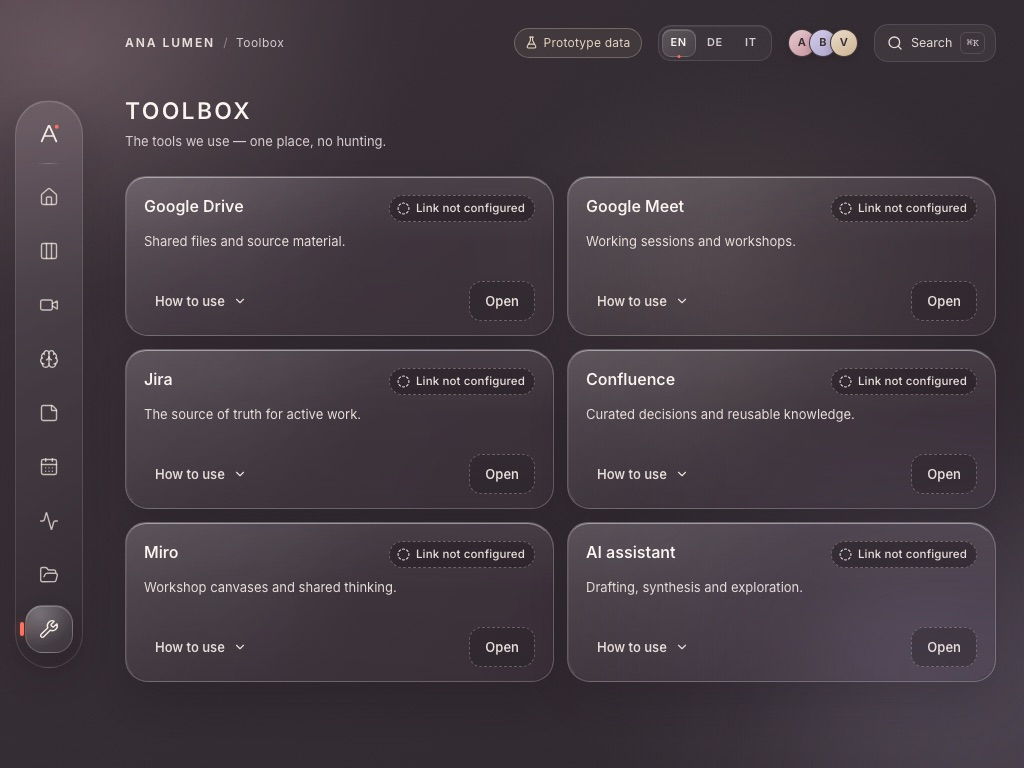
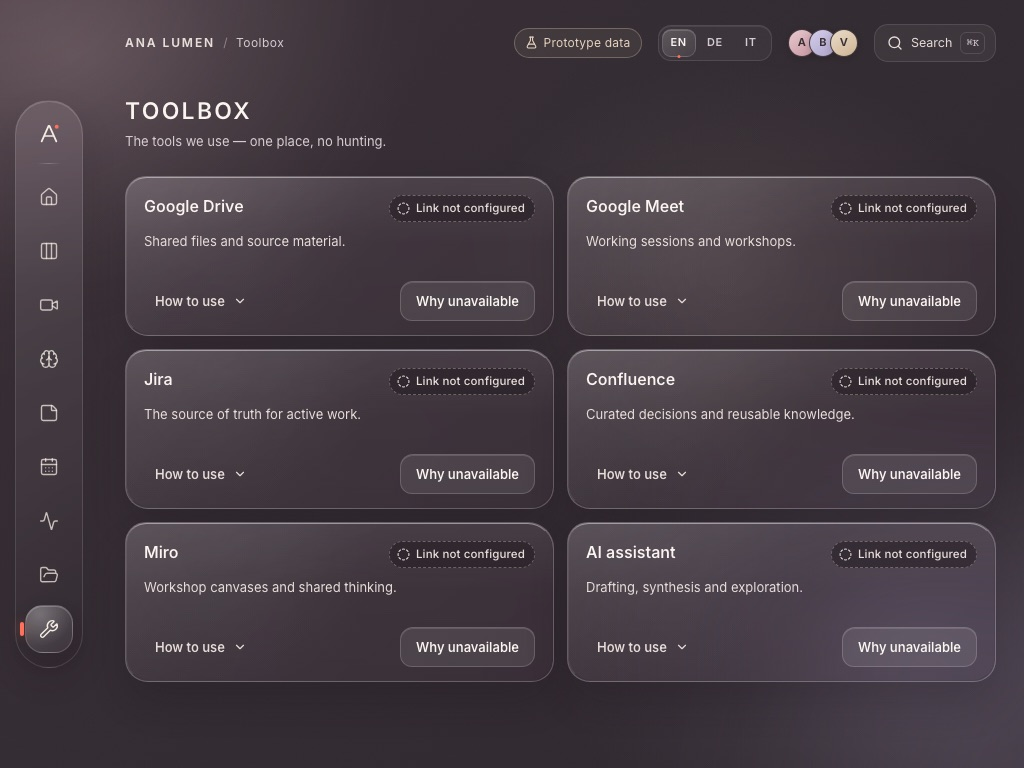
fix(dashboard): resolve PR #2 code-review findings ANA-19..ANA-22
- ANA-19: the context lens keeps modal ownership (focus trap, Escape, focus
  return) for its whole mounted lifetime; the 280 ms exit animation is visual
  only. Repeated close requests are ignored while closing, and a pending close
  timer is cleared on unmount. Reduced motion still closes immediately.
- ANA-22: dashboard workflow also triggers on .nvmrc (read by setup-node);
  push and pull_request path lists kept identical and documented.
- ANA-20: Toolbox action is a truthful, operable "Why unavailable" button
  (no aria-disabled on an actionable control); reason stays visible as a chip.
- ANA-21: search combobox reports aria-expanded=true whenever the popup is
  open, including zero results (no active descendant then).
- e2e/review-fixes.spec.ts: 9 tests, 4 shown failing on 822c802 for the
  reported defects (RED-RUNS.md); evidence screenshots regenerated.

diff --git a/apps/dashboard/e2e/review-fixes.spec.ts b/apps/dashboard/e2e/review-fixes.spec.ts
@@ -1,0 +1,130 @@
+/** Regressions for the Enterprise Code Review findings on PR #2 (Jira ANA-19, ANA-20, ANA-21). */
+import type { Page } from "@playwright/test";
+import { expect, test } from "./fixtures";
+
+const focusInDialog = (page: Page) => page.evaluate(() => !!document.activeElement?.closest('[role="dialog"]'));
+
+test.describe("ANA-19 · context lens keeps modal focus for its whole mounted lifetime", () => {
+  test("motion on: Tab / Shift+Tab cannot leave the lens during the exit animation; focus returns to the opener after removal", async ({ page }) => {
+    await page.emulateMedia({ reducedMotion: "no-preference" });
+    await page.goto("/");
+    const opener = page.getByTestId("context-work");
+    await opener.click();
+    const lens = page.getByTestId("context-lens");
+    await expect(lens).toBeVisible();
+
+    await page.keyboard.press("Escape");
+    // the lens is still mounted as an aria-modal dialog while it animates out
+    await expect(page.locator('[data-state="closing"] [role="dialog"][aria-modal="true"]')).toHaveCount(1);
+    for (const key of ["Tab", "Tab", "Shift+Tab", "Shift+Tab", "Shift+Tab"]) {
+      await page.keyboard.press(key);
+      if ((await page.locator('[role="dialog"]').count()) === 0) break; // animation finished between presses
+      expect(await focusInDialog(page), `focus stays in the mounted dialog after ${key}`).toBe(true);
+    }
+
+    await expect(page.locator('[role="dialog"]')).toHaveCount(0);
+    await expect(opener).toBeFocused();
+  });
+
+  test("a second close request during the exit animation does not close a lens that is reopened right after", async ({ page }) => {
+    await page.emulateMedia({ reducedMotion: "no-preference" });
+    await page.goto("/");
+    await page.getByTestId("context-work").click();
+    await expect(page.getByTestId("context-lens")).toBeVisible();
+    await page.keyboard.press("Escape");
+    await page.waitForTimeout(60);
+    await page.mouse.click(40, 860); // backdrop click while closing
+    await expect(page.locator('[role="dialog"]')).toHaveCount(0);
+    await page.getByTestId("context-session").click();
+    await expect(page.getByTestId("context-lens")).toHaveAttribute("data-lens", "session");
+    await page.waitForTimeout(500); // longer than any stale close timer
+    await expect(page.getByTestId("context-lens")).toBeVisible();
+    await expect(page.getByTestId("context-lens")).toHaveAttribute("data-lens", "session");
+  });
+
+  test("search over a lens is a modal stack: first Escape closes search only, second closes the lens", async ({ page }) => {
+    await page.emulateMedia({ reducedMotion: "no-preference" });
+    await page.goto("/");
+    const opener = page.getByTestId("context-knowledge");
+    await opener.click();
+    await expect(page.getByTestId("context-lens")).toBeVisible();
+    await page.keyboard.press("ControlOrMeta+k");
+    await expect(page.getByTestId("search-panel")).toBeVisible();
+
+    await page.keyboard.press("Escape");
+    await expect(page.getByTestId("search-panel")).toBeHidden();
+    await page.waitForTimeout(400);
+    await expect(page.getByTestId("context-lens")).toBeVisible();
+    expect(await page.evaluate(() => !!document.activeElement?.closest('[data-testid="context-lens"]'))).toBe(true);
+
+    await page.keyboard.press("Escape");
+    await expect(page.locator('[role="dialog"]')).toHaveCount(0);
+    await expect(opener).toBeFocused();
+  });
+
+  test("reduced motion: closing removes the lens immediately and restores focus to the opener", async ({ page }) => {
+    await page.emulateMedia({ reducedMotion: "reduce" });
+    await page.goto("/");
+    const opener = page.getByTestId("context-community");
+    await opener.click();
+    await expect(page.getByTestId("context-lens")).toBeVisible();
+    await page.keyboard.press("Escape");
+    // no exit animation: gone without waiting for the 280 ms timer
+    expect(await page.locator('[role="dialog"]').count()).toBe(0);
+    await expect(opener).toBeFocused();
+  });
+});
+
+test.describe("ANA-20 · Toolbox action: announced state matches behaviour", () => {
+  test("the action is a normal, operable button that explains why the tool cannot open", async ({ page }) => {
+    await page.goto("/toolbox");
+    const card = page.getByTestId("tool-jira");
+    const action = card.getByRole("button", { name: "Why unavailable" });
+    await expect(action).toBeVisible();
+    await expect(action).not.toHaveAttribute("aria-disabled", /.*/);
+    await expect(action).toBeEnabled();
+    await expect(card.getByRole("button", { name: "Open" })).toHaveCount(0);
+    await action.focus();
+    await page.keyboard.press("Enter");
+    await expect(page.getByTestId("toast")).toContainText("not configured");
+    // the reason is also visible without activating anything
+    await expect(card).toContainText("Link not configured");
+  });
+
+  test("no element in the app announces aria-disabled while staying actionable", async ({ page }) => {
+    for (const route of ["/toolbox", "/pulse", "/vault"]) {
+      await page.goto(route);
+      await expect(page.locator('[aria-disabled="true"]')).toHaveCount(0);
+    }
+  });
+});
+
+test.describe("ANA-21 · search combobox expanded state follows the popup, not the result count", () => {
+  test("open with results: expanded, active descendant set", async ({ page }) => {
+    await page.goto("/");
+    await page.keyboard.press("ControlOrMeta+k");
+    const input = page.getByTestId("search-input");
+    await input.fill("brain");
+    await expect(input).toHaveAttribute("aria-expanded", "true");
+    await expect(input).toHaveAttribute("aria-activedescendant", /.+/);
+  });
+
+  test("open with zero results: still expanded, no active descendant, no-results message announced", async ({ page }) => {
+    await page.goto("/");
+    await page.keyboard.press("ControlOrMeta+k");
+    const input = page.getByTestId("search-input");
+    await input.fill("zzzz");
+    await expect(page.getByTestId("search-panel")).toContainText("No matches yet");
+    await expect(input).toHaveAttribute("aria-expanded", "true");
+    await expect(input).not.toHaveAttribute("aria-activedescendant", /.*/);
+    await expect(page.getByTestId("search-panel").locator('[aria-live="polite"]')).toHaveText("0 results");
+    await expect(page.getByRole("listbox")).toBeAttached();
+  });
+
+  test("closed: the combobox is gone, so no stale expanded state remains", async ({ page }) => {
+    await page.goto("/");
+    await page.keyboard.press("ControlOrMeta+k");
+    await page.keyboard.press("Escape");
+    await expect(page.getByRole("combobox")).toHaveCount(0);
+  });
+});

diff --git a/apps/dashboard/src/features/now/ContextLens.tsx b/apps/dashboard/src/features/now/ContextLens.tsx
@@ -2,7 +2,7 @@
 
 import { ArrowRight, BookOpenText, FileJson, FileText, PlayCircle, ScrollText, X } from "lucide-react";
 import Link from "next/link";
-import { useCallback, useId, useRef, useState } from "react";
+import { useCallback, useEffect, useId, useRef, useState } from "react";
 import { useI18n } from "@/components/providers/I18nProvider";
 import { usePrototype } from "@/components/providers/PrototypeProvider";
 import { Avatar } from "@/components/ui/Avatar";
@@ -22,24 +22,37 @@ export type LensId = "work" | "session" | "business" | "knowledge" | "community"
 const CLOSE_MS = 280;
 
 export function ContextLens({ lens, onClose }: { lens: LensId | null; onClose: () => void }) {
+  // `closing` is visual only (exit animation). Modal ownership — focus trap, Escape, focus return —
+  // lasts for the whole time the dialog is mounted and ends only when the lens is removed.
   const [closing, setClosing] = useState(false);
   const reduced = useReducedMotion();
   const panel = useRef<HTMLElement>(null);
+  const closeTimer = useRef<number | null>(null);
   const titleId = useId();
 
   const requestClose = useCallback(() => {
+    if (closeTimer.current !== null) return; // already closing: no second timer, no second cleanup
     if (reduced) {
       onClose();
       return;
     }
     setClosing(true);
-    window.setTimeout(() => {
+    closeTimer.current = window.setTimeout(() => {
+      closeTimer.current = null;
       setClosing(false);
       onClose();
     }, CLOSE_MS);
   }, [onClose, reduced]);
 
-  useFocusTrap(panel, lens !== null && !closing, requestClose);
+  // leaving the page mid-animation must not fire a stale close later
+  useEffect(
+    () => () => {
+      if (closeTimer.current !== null) window.clearTimeout(closeTimer.current);
+    },
+    [],
+  );
+
+  useFocusTrap(panel, lens !== null, requestClose);
 
   if (!lens) return null;
   const shown = lens;

diff --git a/apps/dashboard/src/features/connections/ToolboxView.tsx b/apps/dashboard/src/features/connections/ToolboxView.tsx
@@ -36,8 +36,9 @@ export function ToolboxView({ highlight }: { highlight?: string }) {
                 <Button variant="quiet" aria-expanded={expanded} aria-controls={`how-${tool.id}`} onClick={() => setOpen(expanded ? null : tool.id)} trailingIcon={<ChevronDown size={14} aria-hidden="true" className={expanded ? styles.flip : undefined} />}>
                   {t("toolbox.howTo")}
                 </Button>
-                <Button variant="secondary" aria-disabled="true" onClick={() => notify(t("toolbox.linkMissingToast"))}>
-                  {t("common.open")}
+                {/* a real, operable action that says what it does: explain why the tool cannot be opened yet */}
+                <Button variant="secondary" onClick={() => notify(t("toolbox.linkMissingToast"))}>
+                  {t("toolbox.whyUnavailable")}
                 </Button>
               </div>
             </li>

diff --git a/apps/dashboard/src/components/ui/ui.module.css b/apps/dashboard/src/components/ui/ui.module.css
@@ -32,22 +32,6 @@
   transform: none;
 }
 
-/* unavailable but still focusable (explains itself on click): reads as inert without losing legibility */
-.button[aria-disabled="true"] {
-  cursor: not-allowed;
-  transform: none;
-  color: var(--text-secondary);
-  border-style: dashed;
-  border-color: rgba(245, 237, 228, 0.28);
-  background: rgba(32, 26, 31, 0.35);
-  box-shadow: none;
-}
-
-.button[aria-disabled="true"]:hover {
-  background: rgba(32, 26, 31, 0.35);
-  border-color: rgba(245, 237, 228, 0.28);
-}
-
 .primary {
   color: var(--accent-ink);
   border-color: rgba(255, 192, 177, 0.35);

diff --git a/apps/dashboard/src/components/shell/SearchPalette.tsx b/apps/dashboard/src/components/shell/SearchPalette.tsx
@@ -84,7 +84,8 @@ export function SearchPalette({ open, onClose }: { open: boolean; onClose: () =>
             data-autofocus
             className={styles.input}
             role="combobox"
-            aria-expanded={ordered.length > 0}
+            // the listbox popup is shown whenever the palette is open, even with zero options
+            aria-expanded="true"
             aria-controls={listId}
             aria-autocomplete="list"
             aria-activedescendant={ordered.length ? `${listId}-${active}` : undefined}

diff --git a/apps/dashboard/src/i18n/de.ts b/apps/dashboard/src/i18n/de.ts
@@ -236,6 +236,7 @@ export const de: Messages = {
     subtitle: "Die Werkzeuge, die wir nutzen — an einem Ort, ohne Suchen.",
     howTo: "So nutzt du es",
     linkMissing: "Link nicht eingerichtet",
+    whyUnavailable: "Warum nicht verfügbar",
     linkMissingToast: "Der Werkzeug-Link ist in diesem Prototyp nicht eingerichtet",
   },
   search: {

diff --git a/apps/dashboard/src/i18n/it.ts b/apps/dashboard/src/i18n/it.ts
@@ -236,6 +236,7 @@ export const it: Messages = {
     subtitle: "Gli strumenti che usiamo — in un unico posto, senza cercare.",
     howTo: "Come si usa",
     linkMissing: "Link non configurato",
+    whyUnavailable: "Perché non disponibile",
     linkMissingToast: "Il link dello strumento non è configurato in questo prototipo",
   },
   search: {

diff --git a/apps/dashboard/src/i18n/en.ts b/apps/dashboard/src/i18n/en.ts
@@ -239,6 +239,7 @@ export const en = {
     subtitle: "The tools we use — one place, no hunting.",
     howTo: "How to use",
     linkMissing: "Link not configured",
+    whyUnavailable: "Why unavailable",
     linkMissingToast: "Tool link is not configured in this prototype",
   },
   search: {

diff --git a/docs/evidence/ANA-4/RED-RUNS.md b/docs/evidence/ANA-4/RED-RUNS.md
@@ -9,6 +9,7 @@ A gate is only trusted after it has been seen failing on code that has the defec
 | `e2e/regressions.spec.ts` — 11 round-1 tests | `1816322` | 11 of 11 failed (the lens/search test only after it was strengthened to wait past the close animation; the weak first version passed and was replaced) | all pass |
 | `e2e/regressions.spec.ts` — 8 round-2 tests | `3e83927` (round-1 head) | 8 of 8 failed; the 11 round-1 tests passed there, as they should | all pass |
 | `e2e/regressions.spec.ts` — 7 round-3 tests | `4dc5ec4` (round-2 head) | 6 of 7 failed. The seventh ("a missing time focuses and marks the time field") passed there: round 2 already fixed that behaviour and review only reported the missing test, so it is a coverage test, not a fail-first test | all pass |
+| `e2e/review-fixes.spec.ts` — Enterprise Code Review findings ANA-19/20/21 (9 tests) | `822c802` (PR #2 head reviewed) | 4 of 9 failed, each for the reported defect: focus left the still-mounted aria-modal lens during its exit animation (ANA-19); Toolbox action announced `aria-disabled` while operable, twice (ANA-20); combobox reported `aria-expanded=false` with zero results (ANA-21). The other 5 (stacked Escape, reduced-motion close, double close request, expanded with results, closed state) passed there: they guard behaviour that was already correct | all pass; ANA-19 tests 40/40 with `--repeat-each 10` |
 | canaries in the working tree (reverted, `git diff` empty afterwards) | owner filter returning every ticket; Community card moved onto Knowledge; reduced-motion hook forced off | unit filter test, Board journey, `now` overlap check at 1440 and 1280, reduced-motion check failed | all pass |
 
 Not shown failing on purpose: the 1024 `now` overlap check stayed green in the overlap canary because the 1024 layout

diff --git a/docs/evidence/ANA-4/CHECKLIST.md b/docs/evidence/ANA-4/CHECKLIST.md
@@ -43,6 +43,7 @@ npm run dev            # repository root; Node >= 22.12; first run installs deps
 | axe WCAG 2.1 A/AA: no serious/critical issue on 11 routes and 15 open states (all lenses, search, search over a lens, forms, tabs, note editing) | `@axe-core/playwright` | `quality.spec.ts` |
 | Visible focus, rail current-page marking, reduced motion (no auto-rotation, near-zero transitions), meaning not colour-only, state resets on reload | browser checks | `quality.spec.ts` |
 | Regressions from review rounds 1 and 2 — fail-first runs recorded in [`RED-RUNS.md`](RED-RUNS.md) | — | `regressions.spec.ts` |
+| Code-review regressions: modal lens focus lifecycle (ANA-19), truthful Toolbox action (ANA-20), combobox expanded state (ANA-21) | — | `review-fixes.spec.ts` |
 | Unit: reducer, search, i18n key/placeholder parity, Brain projection, calendar grid, fixture honesty | Vitest | `src/**/*.test.ts(x)` |
 
 Run everything: `npm run check && npm run e2e` (in `apps/dashboard`). Regenerate screenshots:
